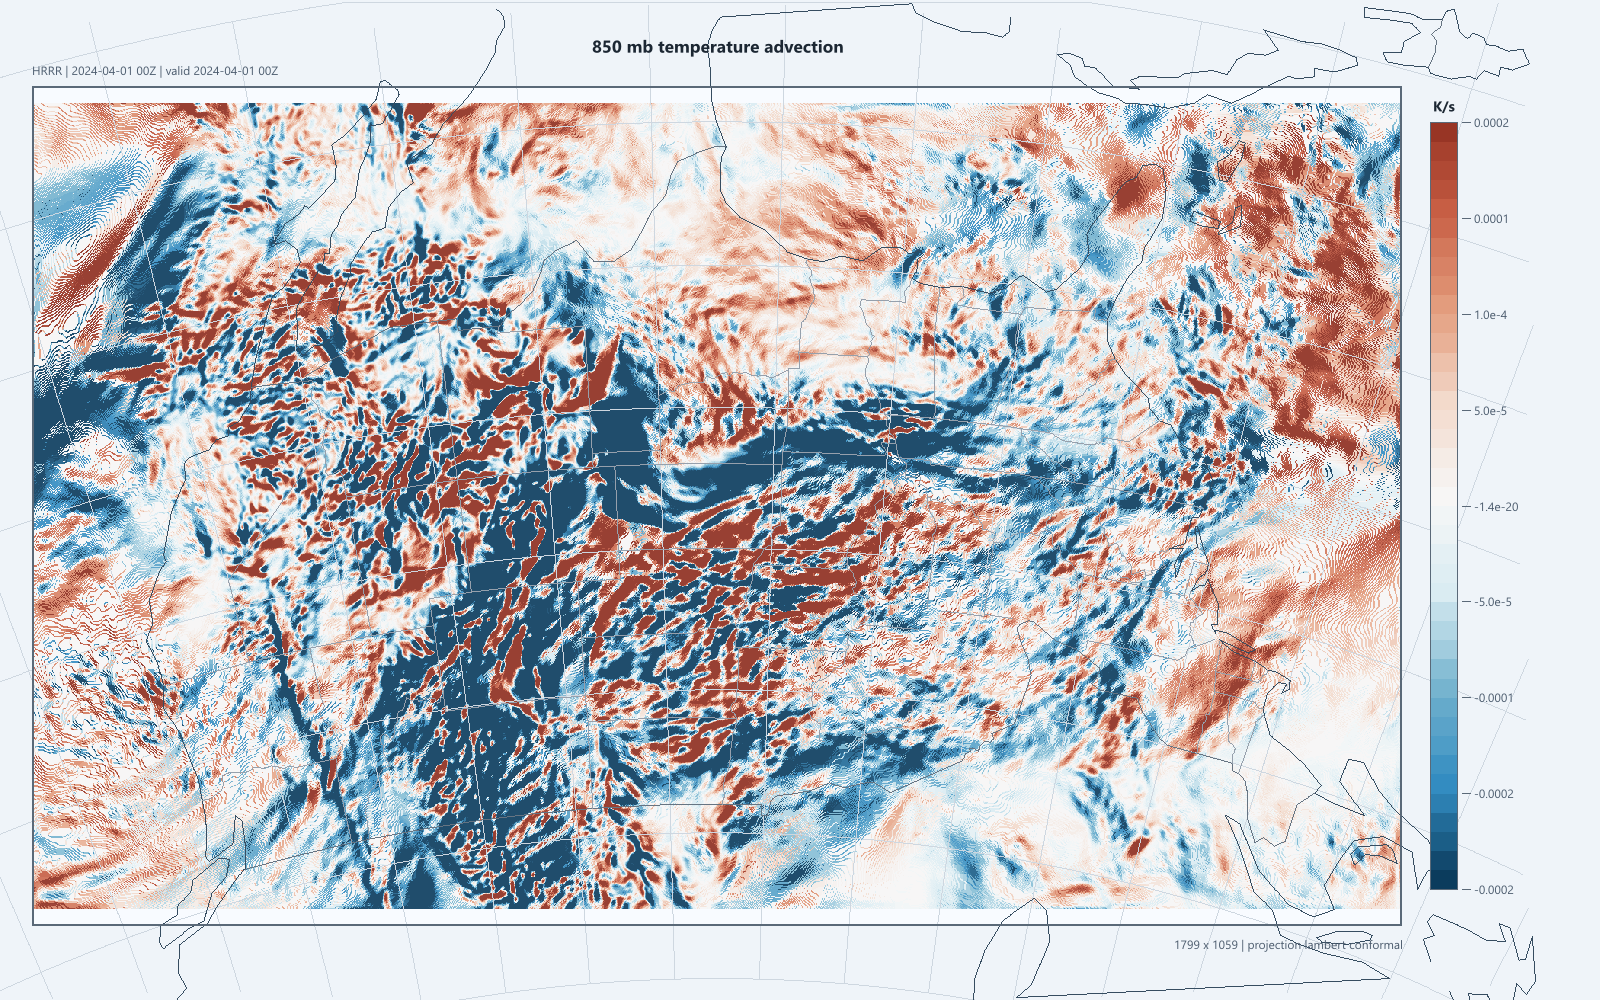
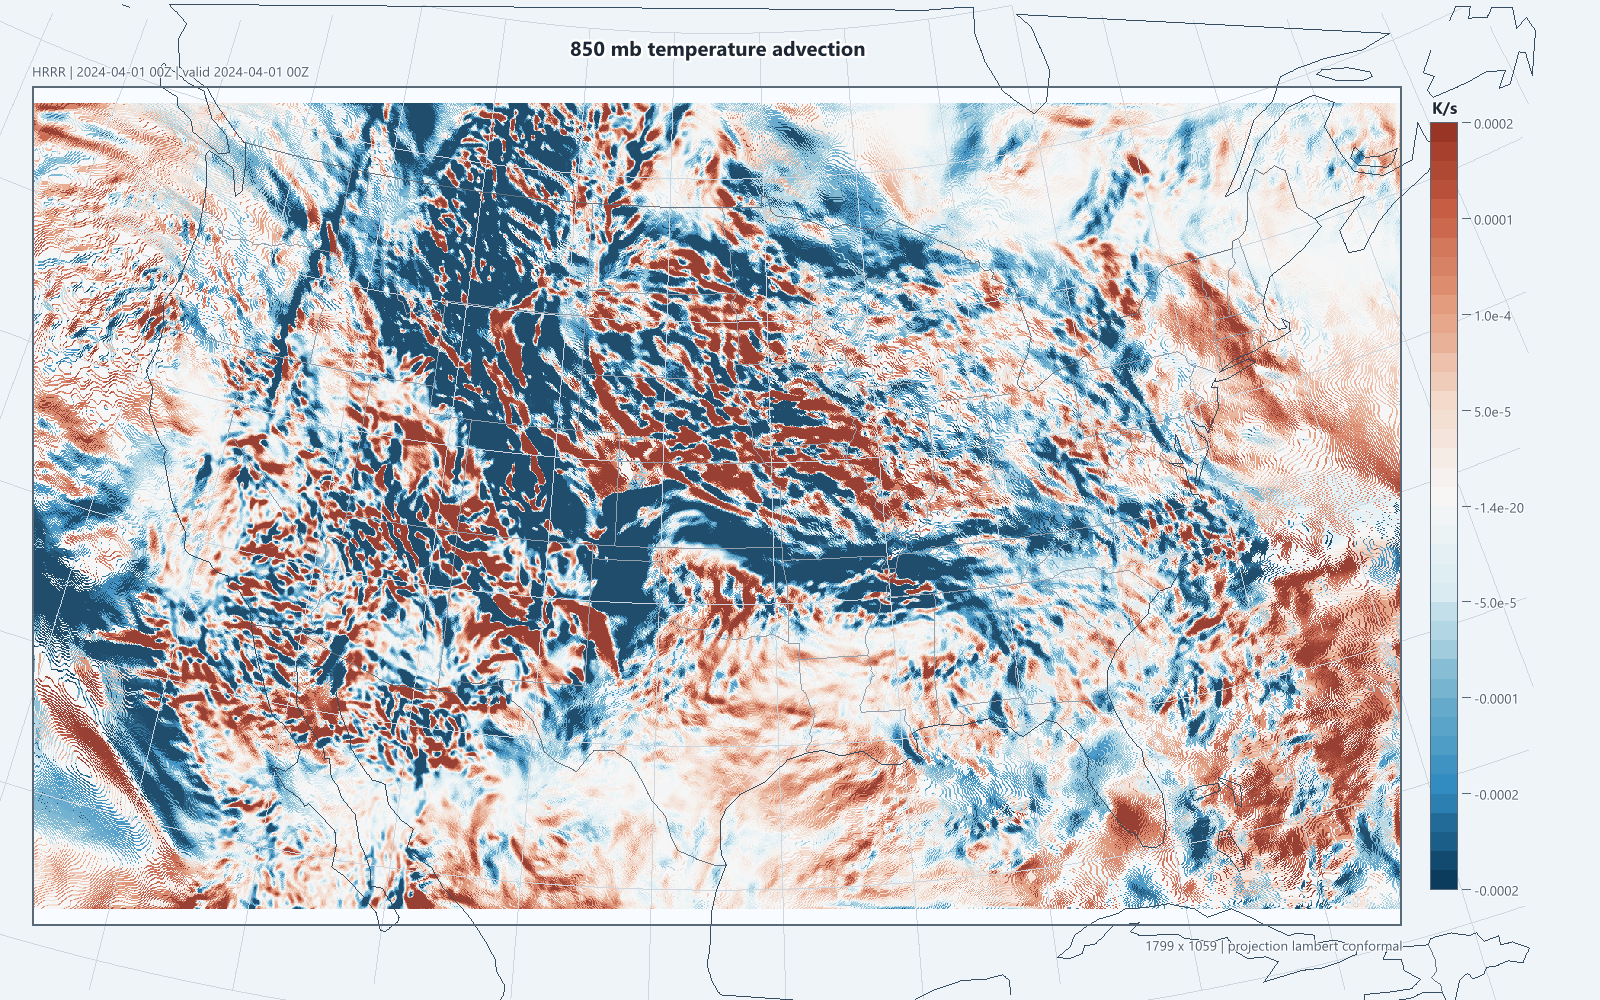
Fix showcase map orientation and label rendering

diff --git a/crates/wx-render/src/text.rs b/crates/wx-render/src/text.rs
@@ -77,6 +77,7 @@ fn draw_text_inner(
     kind: FontKind,
 ) {
     if let Some(font) = get_font(kind) {
+        draw_ttf_halo(img, text, x, y, color, scale, font, kind);
         draw_ttf_text(img, text, x, y, color, scale, font, kind);
     } else {
         draw_bitmap_text(img, text, x, y, color, scale);
@@ -138,6 +139,29 @@ fn draw_ttf_text(
                     Rgba([color.0[0], color.0[1], color.0[2], alpha]),
                 );
             });
+        }
+    }
+}
+
+#[allow(clippy::too_many_arguments)]
+fn draw_ttf_halo(
+    img: &mut RgbaImage,
+    text: &str,
+    x: i32,
+    y: i32,
+    color: Rgba<u8>,
+    scale_tag: u32,
+    font: &Font<'static>,
+    kind: FontKind,
+) {
+    let halo = halo_color(color);
+    let radius = if scale_tag >= 3 { 2 } else { 1 };
+    for oy in -radius..=radius {
+        for ox in -radius..=radius {
+            if ox == 0 && oy == 0 {
+                continue;
+            }
+            draw_ttf_text(img, text, x + ox, y + oy, halo, scale_tag, font, kind);
         }
     }
 }
@@ -205,12 +229,22 @@ fn blend_pixel(img: &mut RgbaImage, x: i32, y: i32, color: Rgba<u8>) {
 
 fn font_size_px(scale: u32, kind: FontKind) -> f32 {
     match (scale.max(1), kind) {
-        (1, FontKind::Regular) => 12.0,
-        (1, FontKind::Bold) => 15.0,
-        (2, FontKind::Regular) => 16.0,
-        (2, FontKind::Bold) => 19.0,
-        (value, FontKind::Regular) => 12.0 + (value as f32 - 1.0) * 4.0,
-        (value, FontKind::Bold) => 15.0 + (value as f32 - 1.0) * 4.0,
+        (1, FontKind::Regular) => 13.0,
+        (1, FontKind::Bold) => 16.0,
+        (2, FontKind::Regular) => 18.0,
+        (2, FontKind::Bold) => 22.0,
+        (value, FontKind::Regular) => 13.0 + (value as f32 - 1.0) * 5.0,
+        (value, FontKind::Bold) => 16.0 + (value as f32 - 1.0) * 5.5,
+    }
+}
+
+fn halo_color(color: Rgba<u8>) -> Rgba<u8> {
+    let luminance =
+        0.2126 * color.0[0] as f32 + 0.7152 * color.0[1] as f32 + 0.0722 * color.0[2] as f32;
+    if luminance > 140.0 {
+        Rgba([22, 28, 36, 168])
+    } else {
+        Rgba([255, 255, 255, 184])
     }
 }
 

diff --git a/crates/wx-render/src/map_render.rs b/crates/wx-render/src/map_render.rs
@@ -147,8 +147,8 @@ fn rasterize_field(
     layout: PlotLayout,
 ) {
     for py in 0..layout.height {
-        let grid_y = projected_grid.extent.y_min
-            + ((py as f64 + 0.5) / layout.height as f64)
+        let grid_y = projected_grid.extent.y_max
+            - ((py as f64 + 0.5) / layout.height as f64)
                 * (projected_grid.extent.y_max - projected_grid.extent.y_min);
         for px in 0..layout.width {
             let grid_x = projected_grid.extent.x_min
@@ -541,7 +541,7 @@ impl MapExtent {
         }
         Some((
             rx * (width.saturating_sub(1)) as f64,
-            ry * (height.saturating_sub(1)) as f64,
+            (1.0 - ry) * (height.saturating_sub(1)) as f64,
         ))
     }
 }
@@ -961,6 +961,18 @@ mod tests {
         assert!((-70.0..=-55.0).contains(&lon_max), "lon_max={lon_max}");
         assert!((20.0..=25.0).contains(&lat_min), "lat_min={lat_min}");
         assert!((47.0..=55.0).contains(&lat_max), "lat_max={lat_max}");
+    }
+
+    #[test]
+    fn pixel_coords_map_south_to_bottom_and_north_to_top() {
+        let extent = MapExtent::from_bounds(0.0, 10.0, 0.0, 10.0, 1.0);
+
+        let (_, south_y) = extent.pixel_coords(0.0, 0.0, 100, 100).expect("south point");
+        let (_, north_y) = extent.pixel_coords(0.0, 10.0, 100, 100).expect("north point");
+
+        assert!(south_y > north_y, "south_y={south_y} north_y={north_y}");
+        assert!((south_y - 99.0).abs() < 0.1, "south_y={south_y}");
+        assert!(north_y.abs() < 0.1, "north_y={north_y}");
     }
 }
 
